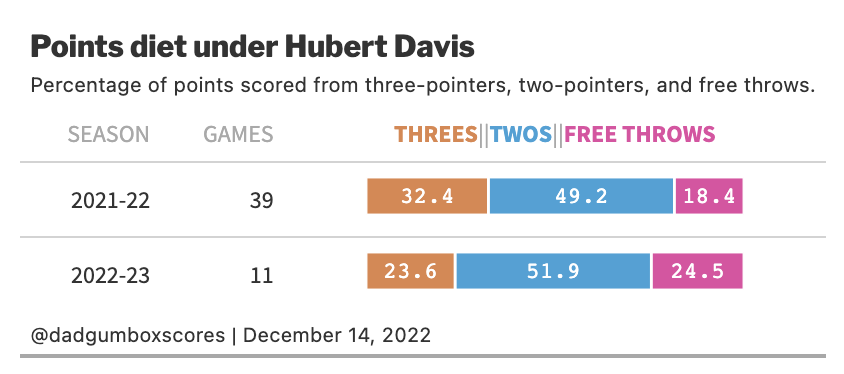
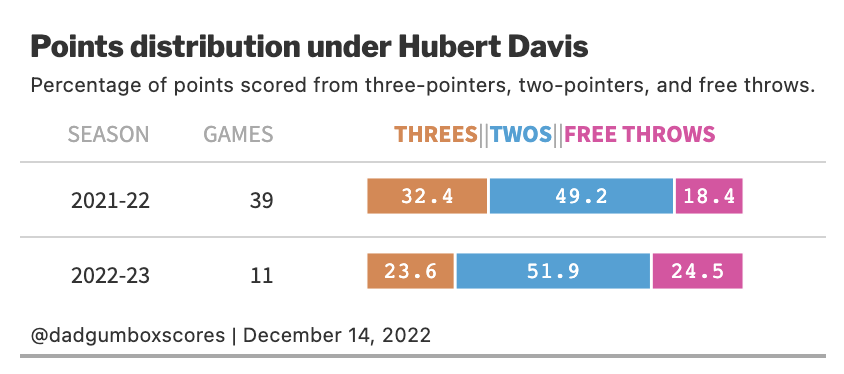
byc-006-updates

Changed region(s): [[0.1848, 0.0882, 0.7085, 0.1765]]

diff --git a/byc_006/byc-006_points_dist.html b/byc_006/byc-006_points_dist.html
@@ -140,8 +140,8 @@ code span.wa { color: #60a0b0; font-weight: bold; font-style: italic; } /* Warni
 <span id="cb1-9"><a href="#cb1-9" aria-hidden="true" tabindex="-1"></a>  <span class="st">"2022-23"</span>,<span class="dv">11</span>,<span class="st">"Free Throws"</span>,<span class="fl">24.5</span></span>
 <span id="cb1-10"><a href="#cb1-10" aria-hidden="true" tabindex="-1"></a>)</span>
 <span id="cb1-11"><a href="#cb1-11" aria-hidden="true" tabindex="-1"></a></span>
-<span id="cb1-12"><a href="#cb1-12" aria-hidden="true" tabindex="-1"></a><span class="co"># load csv ffrom sportsreference</span></span>
-<span id="cb1-13"><a href="#cb1-13" aria-hidden="true" tabindex="-1"></a>hubie <span class="ot">&lt;-</span> <span class="fu">read_csv</span>(<span class="st">'hubie.csv'</span>)</span></code><button title="Copy to Clipboard" class="code-copy-button"><i class="bi"></i></button></pre></div>
+<span id="cb1-12"><a href="#cb1-12" aria-hidden="true" tabindex="-1"></a><span class="co"># load csv from sportsreference</span></span>
+<span id="cb1-13"><a href="#cb1-13" aria-hidden="true" tabindex="-1"></a>assists <span class="ot">&lt;-</span> <span class="fu">read_csv</span>(<span class="st">'assists_turnovers.csv'</span>)</span></code><button title="Copy to Clipboard" class="code-copy-button"><i class="bi"></i></button></pre></div>
 </details>
 </div>
 </section>
@@ -150,93 +150,73 @@ code span.wa { color: #60a0b0; font-weight: bold; font-style: italic; } /* Warni
 <div class="cell">
 <details>
 <summary>Code</summary>
-<div class="sourceCode cell-code" id="cb2"><pre class="sourceCode r code-with-copy"><code class="sourceCode r"><span id="cb2-1"><a href="#cb2-1" aria-hidden="true" tabindex="-1"></a><span class="co"># season table </span></span>
+<div class="sourceCode cell-code" id="cb2"><pre class="sourceCode r code-with-copy"><code class="sourceCode r"><span id="cb2-1"><a href="#cb2-1" aria-hidden="true" tabindex="-1"></a><span class="co"># season table</span></span>
 <span id="cb2-2"><a href="#cb2-2" aria-hidden="true" tabindex="-1"></a>season_tb <span class="ot">&lt;-</span> season <span class="sc">%&gt;%</span></span>
 <span id="cb2-3"><a href="#cb2-3" aria-hidden="true" tabindex="-1"></a>  <span class="fu">group_by</span>(Season) <span class="sc">%&gt;%</span></span>
-<span id="cb2-4"><a href="#cb2-4" aria-hidden="true" tabindex="-1"></a>  <span class="fu">summarize</span>(<span class="at">list_data =</span> <span class="fu">list</span>(Values)) <span class="sc">%&gt;%</span> </span>
+<span id="cb2-4"><a href="#cb2-4" aria-hidden="true" tabindex="-1"></a>  <span class="fu">summarize</span>(<span class="at">list_data =</span> <span class="fu">list</span>(Values)) <span class="sc">%&gt;%</span></span>
 <span id="cb2-5"><a href="#cb2-5" aria-hidden="true" tabindex="-1"></a>  <span class="fu">arrange</span>(Season)</span>
 <span id="cb2-6"><a href="#cb2-6" aria-hidden="true" tabindex="-1"></a></span>
-<span id="cb2-7"><a href="#cb2-7" aria-hidden="true" tabindex="-1"></a>join_season <span class="ot">&lt;-</span> season <span class="sc">%&gt;%</span> </span>
-<span id="cb2-8"><a href="#cb2-8" aria-hidden="true" tabindex="-1"></a>  <span class="fu">group_by</span>(Season) <span class="sc">%&gt;%</span> </span>
-<span id="cb2-9"><a href="#cb2-9" aria-hidden="true" tabindex="-1"></a>  <span class="fu">summarize</span>(<span class="at">Games =</span> Games[<span class="dv">1</span>]) </span>
+<span id="cb2-7"><a href="#cb2-7" aria-hidden="true" tabindex="-1"></a>join_season <span class="ot">&lt;-</span> season <span class="sc">%&gt;%</span></span>
+<span id="cb2-8"><a href="#cb2-8" aria-hidden="true" tabindex="-1"></a>  <span class="fu">group_by</span>(Season) <span class="sc">%&gt;%</span></span>
+<span id="cb2-9"><a href="#cb2-9" aria-hidden="true" tabindex="-1"></a>  <span class="fu">summarize</span>(<span class="at">Games =</span> Games[<span class="dv">1</span>])</span>
 <span id="cb2-10"><a href="#cb2-10" aria-hidden="true" tabindex="-1"></a></span>
-<span id="cb2-11"><a href="#cb2-11" aria-hidden="true" tabindex="-1"></a>final_season <span class="ot">&lt;-</span> <span class="fu">merge</span>(season_tb, join_season, <span class="at">by =</span> <span class="st">"Season"</span>) <span class="sc">%&gt;%</span> </span>
-<span id="cb2-12"><a href="#cb2-12" aria-hidden="true" tabindex="-1"></a>  <span class="fu">select</span>(Season, Games, list_data) </span>
+<span id="cb2-11"><a href="#cb2-11" aria-hidden="true" tabindex="-1"></a>final_season <span class="ot">&lt;-</span> <span class="fu">merge</span>(season_tb, join_season, <span class="at">by =</span> <span class="st">"Season"</span>) <span class="sc">%&gt;%</span></span>
+<span id="cb2-12"><a href="#cb2-12" aria-hidden="true" tabindex="-1"></a>  <span class="fu">select</span>(Season, Games, list_data)</span>
 <span id="cb2-13"><a href="#cb2-13" aria-hidden="true" tabindex="-1"></a></span>
 <span id="cb2-14"><a href="#cb2-14" aria-hidden="true" tabindex="-1"></a>final_season <span class="sc">%&gt;%</span></span>
-<span id="cb2-15"><a href="#cb2-15" aria-hidden="true" tabindex="-1"></a>  <span class="fu">gt</span>() <span class="sc">%&gt;%</span> </span>
-<span id="cb2-16"><a href="#cb2-16" aria-hidden="true" tabindex="-1"></a>  <span class="fu">gt_plt_bar_stack</span>(<span class="at">column =</span> list_data, <span class="at">width =</span> <span class="dv">50</span>,</span>
-<span id="cb2-17"><a href="#cb2-17" aria-hidden="true" tabindex="-1"></a>                   <span class="at">labels =</span> <span class="fu">c</span>(<span class="st">"Threes"</span>, <span class="st">"Twos"</span>, <span class="st">"Free Throws"</span>),</span>
-<span id="cb2-18"><a href="#cb2-18" aria-hidden="true" tabindex="-1"></a>                   <span class="at">palette=</span> <span class="fu">c</span>(<span class="st">"#d38956"</span>, <span class="st">"#56a0d3"</span>, <span class="st">"#d356a0"</span>),</span>
-<span id="cb2-19"><a href="#cb2-19" aria-hidden="true" tabindex="-1"></a>                   <span class="at">fmt_fn =</span> scales<span class="sc">::</span><span class="fu">label_number</span>(<span class="at">accuracy =</span> <span class="fl">0.1</span>)) <span class="sc">%&gt;%</span></span>
-<span id="cb2-20"><a href="#cb2-20" aria-hidden="true" tabindex="-1"></a>  <span class="fu">gt_theme_nytimes</span>() <span class="sc">%&gt;%</span> </span>
-<span id="cb2-21"><a href="#cb2-21" aria-hidden="true" tabindex="-1"></a>  <span class="co"># set title + caption + subtitle</span></span>
-<span id="cb2-22"><a href="#cb2-22" aria-hidden="true" tabindex="-1"></a>  <span class="fu">tab_header</span>(<span class="at">title =</span> <span class="st">"Points diet under Hubert Davis"</span>,</span>
-<span id="cb2-23"><a href="#cb2-23" aria-hidden="true" tabindex="-1"></a>             <span class="at">subtitle =</span> <span class="st">"Percentage of points scored from three-pointers, two-pointers, and free throws."</span>) <span class="sc">%&gt;%</span></span>
-<span id="cb2-24"><a href="#cb2-24" aria-hidden="true" tabindex="-1"></a>  <span class="fu">tab_source_note</span>(<span class="at">source_note =</span> <span class="st">"@dadgumboxscores | December 14, 2022"</span>)  <span class="sc">%&gt;%</span></span>
-<span id="cb2-25"><a href="#cb2-25" aria-hidden="true" tabindex="-1"></a>  <span class="co"># fix font of source note</span></span>
-<span id="cb2-26"><a href="#cb2-26" aria-hidden="true" tabindex="-1"></a>  <span class="fu">tab_options</span> (<span class="at">source_notes.font.size =</span> <span class="fu">px</span>(<span class="dv">10</span>),</span>
-<span id="cb2-27"><a href="#cb2-27" aria-hidden="true" tabindex="-1"></a>               <span class="at">table.font.size =</span> <span class="fu">px</span>(<span class="dv">12</span>)) <span class="sc">%&gt;%</span> </span>
-<span id="cb2-28"><a href="#cb2-28" aria-hidden="true" tabindex="-1"></a>  <span class="fu">gtsave</span>(<span class="st">"diet.png"</span>, <span class="at">expand =</span> <span class="dv">10</span>)</span>
-<span id="cb2-29"><a href="#cb2-29" aria-hidden="true" tabindex="-1"></a></span>
-<span id="cb2-30"><a href="#cb2-30" aria-hidden="true" tabindex="-1"></a><span class="co"># game-by-game data</span></span>
-<span id="cb2-31"><a href="#cb2-31" aria-hidden="true" tabindex="-1"></a>hubie <span class="sc">%&gt;%</span> </span>
-<span id="cb2-32"><a href="#cb2-32" aria-hidden="true" tabindex="-1"></a>  <span class="fu">mutate</span>(<span class="at">pts_three =</span> ((<span class="st">`</span><span class="at">3P</span><span class="st">`</span> <span class="sc">*</span> <span class="dv">3</span>) <span class="sc">/</span> Tm) <span class="sc">*</span> <span class="dv">100</span>,</span>
-<span id="cb2-33"><a href="#cb2-33" aria-hidden="true" tabindex="-1"></a>         <span class="at">pts_two =</span> (((FG <span class="sc">-</span> <span class="st">`</span><span class="at">3P</span><span class="st">`</span>) <span class="sc">*</span><span class="dv">2</span>) <span class="sc">/</span> Tm) <span class="sc">*</span><span class="dv">100</span>,</span>
-<span id="cb2-34"><a href="#cb2-34" aria-hidden="true" tabindex="-1"></a>         <span class="at">pts_ft =</span> (FT<span class="sc">/</span>Tm <span class="sc">*</span><span class="dv">100</span>)) <span class="sc">%&gt;%</span> </span>
-<span id="cb2-35"><a href="#cb2-35" aria-hidden="true" tabindex="-1"></a>        <span class="fu">pivot_longer</span>(<span class="at">cols =</span> <span class="fu">c</span>(pts_three,pts_two, pts_ft),</span>
-<span id="cb2-36"><a href="#cb2-36" aria-hidden="true" tabindex="-1"></a>                     <span class="at">names_to =</span> <span class="st">"ptd"</span>,</span>
-<span id="cb2-37"><a href="#cb2-37" aria-hidden="true" tabindex="-1"></a>                     <span class="at">values_to =</span> <span class="st">"val"</span>,</span>
-<span id="cb2-38"><a href="#cb2-38" aria-hidden="true" tabindex="-1"></a>                     ) <span class="sc">%&gt;%</span> </span>
-<span id="cb2-39"><a href="#cb2-39" aria-hidden="true" tabindex="-1"></a>  <span class="fu">rename</span>(<span class="at">Opp =</span> <span class="st">`</span><span class="at">Opp...4</span><span class="st">`</span>) <span class="sc">%&gt;%</span> </span>
-<span id="cb2-40"><a href="#cb2-40" aria-hidden="true" tabindex="-1"></a>  <span class="fu">select</span>(G,Date,Opp,<span class="st">`</span><span class="at">W/L</span><span class="st">`</span>,Tm,ptd,val) <span class="sc">%&gt;%</span> </span>
-<span id="cb2-41"><a href="#cb2-41" aria-hidden="true" tabindex="-1"></a>  <span class="fu">mutate</span>(<span class="at">month =</span> <span class="fu">case_when</span>(</span>
-<span id="cb2-42"><a href="#cb2-42" aria-hidden="true" tabindex="-1"></a>        G <span class="sc">&lt;</span> <span class="dv">13</span> <span class="sc">~</span> <span class="st">"November + December 2021"</span>,</span>
-<span id="cb2-43"><a href="#cb2-43" aria-hidden="true" tabindex="-1"></a>        G <span class="sc">&gt;</span> <span class="dv">12</span> <span class="sc">&amp;</span> G <span class="sc">&lt;</span> <span class="dv">31</span> <span class="sc">~</span> <span class="st">"January + February"</span>,</span>
-<span id="cb2-44"><a href="#cb2-44" aria-hidden="true" tabindex="-1"></a>        G <span class="sc">&gt;</span> <span class="dv">30</span> <span class="sc">&amp;</span> G <span class="sc">&lt;</span> <span class="dv">40</span> <span class="sc">~</span> <span class="st">"March + April"</span>,</span>
-<span id="cb2-45"><a href="#cb2-45" aria-hidden="true" tabindex="-1"></a>        G <span class="sc">&gt;</span> <span class="dv">39</span> <span class="sc">~</span> <span class="st">"2022-23 season"</span>,</span>
-<span id="cb2-46"><a href="#cb2-46" aria-hidden="true" tabindex="-1"></a>  )) <span class="ot">-&gt;</span> new</span>
-<span id="cb2-47"><a href="#cb2-47" aria-hidden="true" tabindex="-1"></a></span>
-<span id="cb2-48"><a href="#cb2-48" aria-hidden="true" tabindex="-1"></a>first <span class="ot">&lt;-</span> new <span class="sc">%&gt;%</span></span>
-<span id="cb2-49"><a href="#cb2-49" aria-hidden="true" tabindex="-1"></a>  <span class="fu">group_by</span>(G) <span class="sc">%&gt;%</span></span>
-<span id="cb2-50"><a href="#cb2-50" aria-hidden="true" tabindex="-1"></a>  <span class="fu">summarize</span>(<span class="at">list_data =</span> <span class="fu">list</span>(val)) <span class="sc">%&gt;%</span> </span>
-<span id="cb2-51"><a href="#cb2-51" aria-hidden="true" tabindex="-1"></a>  <span class="fu">arrange</span>(G) </span>
-<span id="cb2-52"><a href="#cb2-52" aria-hidden="true" tabindex="-1"></a></span>
-<span id="cb2-53"><a href="#cb2-53" aria-hidden="true" tabindex="-1"></a>second <span class="ot">&lt;-</span> new <span class="sc">%&gt;%</span> </span>
-<span id="cb2-54"><a href="#cb2-54" aria-hidden="true" tabindex="-1"></a>        <span class="fu">group_by</span>(G) <span class="sc">%&gt;%</span> </span>
-<span id="cb2-55"><a href="#cb2-55" aria-hidden="true" tabindex="-1"></a>        <span class="fu">summarize</span>(<span class="at">Opp =</span> Opp[<span class="dv">1</span>], <span class="at">Pts =</span> Tm[<span class="dv">1</span>]) <span class="sc">%&gt;%</span> </span>
-<span id="cb2-56"><a href="#cb2-56" aria-hidden="true" tabindex="-1"></a>        <span class="fu">arrange</span>(<span class="sc">-</span>G) </span>
-<span id="cb2-57"><a href="#cb2-57" aria-hidden="true" tabindex="-1"></a></span>
-<span id="cb2-58"><a href="#cb2-58" aria-hidden="true" tabindex="-1"></a>third  <span class="ot">&lt;-</span> <span class="fu">merge</span>(first, second, <span class="at">by =</span> <span class="st">"G"</span>) <span class="sc">%&gt;%</span> </span>
-<span id="cb2-59"><a href="#cb2-59" aria-hidden="true" tabindex="-1"></a>  <span class="fu">select</span>(G, Opp, Pts, list_data) </span>
-<span id="cb2-60"><a href="#cb2-60" aria-hidden="true" tabindex="-1"></a></span>
-<span id="cb2-61"><a href="#cb2-61" aria-hidden="true" tabindex="-1"></a>month <span class="ot">&lt;-</span> new <span class="sc">%&gt;%</span> </span>
-<span id="cb2-62"><a href="#cb2-62" aria-hidden="true" tabindex="-1"></a>         <span class="fu">group_by</span>(G) <span class="sc">%&gt;%</span> </span>
-<span id="cb2-63"><a href="#cb2-63" aria-hidden="true" tabindex="-1"></a>         <span class="fu">summarize</span>(<span class="at">month =</span> month[<span class="dv">1</span>]) <span class="sc">%&gt;%</span> </span>
-<span id="cb2-64"><a href="#cb2-64" aria-hidden="true" tabindex="-1"></a>         <span class="fu">arrange</span>(<span class="sc">-</span>G) </span>
-<span id="cb2-65"><a href="#cb2-65" aria-hidden="true" tabindex="-1"></a></span>
-<span id="cb2-66"><a href="#cb2-66" aria-hidden="true" tabindex="-1"></a>final <span class="ot">&lt;-</span> <span class="fu">merge</span>(third, month, <span class="at">by =</span> <span class="st">"G"</span>) <span class="sc">%&gt;%</span> </span>
-<span id="cb2-67"><a href="#cb2-67" aria-hidden="true" tabindex="-1"></a>          <span class="fu">select</span>(G, Opp, Pts, list_data, month) </span>
-<span id="cb2-68"><a href="#cb2-68" aria-hidden="true" tabindex="-1"></a>      </span>
-<span id="cb2-69"><a href="#cb2-69" aria-hidden="true" tabindex="-1"></a></span>
-<span id="cb2-70"><a href="#cb2-70" aria-hidden="true" tabindex="-1"></a>final <span class="sc">%&gt;%</span></span>
-<span id="cb2-71"><a href="#cb2-71" aria-hidden="true" tabindex="-1"></a>  <span class="fu">arrange</span>(<span class="sc">-</span>G) <span class="sc">%&gt;%</span> </span>
-<span id="cb2-72"><a href="#cb2-72" aria-hidden="true" tabindex="-1"></a>  <span class="fu">slice</span>(<span class="dv">1</span><span class="sc">:</span><span class="dv">10</span>) <span class="sc">%&gt;%</span> </span>
-<span id="cb2-73"><a href="#cb2-73" aria-hidden="true" tabindex="-1"></a>  <span class="fu">select</span>(Opp, Pts, list_data) <span class="sc">%&gt;%</span> </span>
-<span id="cb2-74"><a href="#cb2-74" aria-hidden="true" tabindex="-1"></a>  <span class="fu">gt</span>() <span class="sc">%&gt;%</span> </span>
-<span id="cb2-75"><a href="#cb2-75" aria-hidden="true" tabindex="-1"></a>  <span class="fu">gt_plt_bar_stack</span>(<span class="at">column =</span> list_data, <span class="at">width =</span> <span class="dv">70</span>,</span>
-<span id="cb2-76"><a href="#cb2-76" aria-hidden="true" tabindex="-1"></a>                   <span class="at">labels =</span> <span class="fu">c</span>(<span class="st">"Threes"</span>, <span class="st">"Twos"</span>, <span class="st">"Free Throws"</span>),</span>
-<span id="cb2-77"><a href="#cb2-77" aria-hidden="true" tabindex="-1"></a>                   <span class="at">palette=</span> <span class="fu">c</span>(<span class="st">"#d38956"</span>, <span class="st">"#56a0d3"</span>, <span class="st">"#d356a0"</span>),</span>
-<span id="cb2-78"><a href="#cb2-78" aria-hidden="true" tabindex="-1"></a>                   <span class="at">fmt_fn =</span> scales<span class="sc">::</span><span class="fu">label_number</span>(<span class="at">accuracy =</span> <span class="fl">0.1</span>)) <span class="sc">%&gt;%</span></span>
-<span id="cb2-79"><a href="#cb2-79" aria-hidden="true" tabindex="-1"></a>  <span class="fu">gt_theme_nytimes</span>() <span class="sc">%&gt;%</span> </span>
-<span id="cb2-80"><a href="#cb2-80" aria-hidden="true" tabindex="-1"></a>  <span class="co"># set title + caption + subtitle</span></span>
-<span id="cb2-81"><a href="#cb2-81" aria-hidden="true" tabindex="-1"></a>  <span class="fu">tab_header</span>(<span class="at">title =</span> <span class="st">"Points diet game-by-game this season"</span>,</span>
-<span id="cb2-82"><a href="#cb2-82" aria-hidden="true" tabindex="-1"></a>             <span class="at">subtitle =</span> <span class="st">"Percentage of points scored from three-pointers, two-pointers, and free throws."</span>) <span class="sc">%&gt;%</span></span>
-<span id="cb2-83"><a href="#cb2-83" aria-hidden="true" tabindex="-1"></a>  <span class="fu">tab_source_note</span>(<span class="at">source_note =</span> <span class="st">"@dadgumboxscores | December 14, 2022"</span>)  <span class="sc">%&gt;%</span></span>
-<span id="cb2-84"><a href="#cb2-84" aria-hidden="true" tabindex="-1"></a>  <span class="co"># fix font of source note</span></span>
-<span id="cb2-85"><a href="#cb2-85" aria-hidden="true" tabindex="-1"></a>  <span class="fu">tab_options</span> (<span class="at">source_notes.font.size =</span> <span class="fu">px</span>(<span class="dv">10</span>),</span>
-<span id="cb2-86"><a href="#cb2-86" aria-hidden="true" tabindex="-1"></a>               <span class="at">table.font.size =</span> <span class="fu">px</span>(<span class="dv">12</span>)) <span class="sc">%&gt;%</span> </span>
-<span id="cb2-87"><a href="#cb2-87" aria-hidden="true" tabindex="-1"></a>  <span class="fu">gtsave</span>(<span class="st">"all_games_diet.png"</span>, <span class="at">expand =</span> <span class="dv">10</span>)</span></code><button title="Copy to Clipboard" class="code-copy-button"><i class="bi"></i></button></pre></div>
+<span id="cb2-15"><a href="#cb2-15" aria-hidden="true" tabindex="-1"></a>  <span class="fu">gt</span>() <span class="sc">%&gt;%</span></span>
+<span id="cb2-16"><a href="#cb2-16" aria-hidden="true" tabindex="-1"></a>  <span class="fu">gt_plt_bar_stack</span>(</span>
+<span id="cb2-17"><a href="#cb2-17" aria-hidden="true" tabindex="-1"></a>    <span class="at">column =</span> list_data,</span>
+<span id="cb2-18"><a href="#cb2-18" aria-hidden="true" tabindex="-1"></a>    <span class="at">width =</span> <span class="dv">50</span>,</span>
+<span id="cb2-19"><a href="#cb2-19" aria-hidden="true" tabindex="-1"></a>    <span class="at">labels =</span> <span class="fu">c</span>(<span class="st">"Threes"</span>, <span class="st">"Twos"</span>, <span class="st">"Free Throws"</span>),</span>
+<span id="cb2-20"><a href="#cb2-20" aria-hidden="true" tabindex="-1"></a>    <span class="at">palette =</span> <span class="fu">c</span>(<span class="st">"#d38956"</span>, <span class="st">"#56a0d3"</span>, <span class="st">"#d356a0"</span>),</span>
+<span id="cb2-21"><a href="#cb2-21" aria-hidden="true" tabindex="-1"></a>    <span class="at">fmt_fn =</span> scales<span class="sc">::</span><span class="fu">label_number</span>(<span class="at">accuracy =</span> <span class="fl">0.1</span>)</span>
+<span id="cb2-22"><a href="#cb2-22" aria-hidden="true" tabindex="-1"></a>  ) <span class="sc">%&gt;%</span></span>
+<span id="cb2-23"><a href="#cb2-23" aria-hidden="true" tabindex="-1"></a>  <span class="fu">gt_theme_nytimes</span>() <span class="sc">%&gt;%</span></span>
+<span id="cb2-24"><a href="#cb2-24" aria-hidden="true" tabindex="-1"></a>  <span class="co"># set title + caption + subtitle</span></span>
+<span id="cb2-25"><a href="#cb2-25" aria-hidden="true" tabindex="-1"></a>  <span class="fu">tab_header</span>(<span class="at">title =</span> <span class="st">"Points distribution under Hubert Davis"</span>,</span>
+<span id="cb2-26"><a href="#cb2-26" aria-hidden="true" tabindex="-1"></a>             <span class="at">subtitle =</span> <span class="st">"Percentage of points scored from three-pointers, two-pointers, and free throws."</span>) <span class="sc">%&gt;%</span></span>
+<span id="cb2-27"><a href="#cb2-27" aria-hidden="true" tabindex="-1"></a>  <span class="fu">tab_source_note</span>(<span class="at">source_note =</span> <span class="st">"@dadgumboxscores | December 14, 2022"</span>)  <span class="sc">%&gt;%</span></span>
+<span id="cb2-28"><a href="#cb2-28" aria-hidden="true" tabindex="-1"></a>  <span class="co"># fix font of source note</span></span>
+<span id="cb2-29"><a href="#cb2-29" aria-hidden="true" tabindex="-1"></a>  <span class="fu">tab_options</span> (<span class="at">source_notes.font.size =</span> <span class="fu">px</span>(<span class="dv">10</span>),</span>
+<span id="cb2-30"><a href="#cb2-30" aria-hidden="true" tabindex="-1"></a>               <span class="at">table.font.size =</span> <span class="fu">px</span>(<span class="dv">12</span>)) <span class="sc">%&gt;%</span></span>
+<span id="cb2-31"><a href="#cb2-31" aria-hidden="true" tabindex="-1"></a>  <span class="fu">gtsave</span>(<span class="st">"diet.png"</span>, <span class="at">expand =</span> <span class="dv">10</span>)</span>
+<span id="cb2-32"><a href="#cb2-32" aria-hidden="true" tabindex="-1"></a></span>
+<span id="cb2-33"><a href="#cb2-33" aria-hidden="true" tabindex="-1"></a><span class="co"># assists data</span></span>
+<span id="cb2-34"><a href="#cb2-34" aria-hidden="true" tabindex="-1"></a>assists <span class="sc">%&gt;%</span></span>
+<span id="cb2-35"><a href="#cb2-35" aria-hidden="true" tabindex="-1"></a>  <span class="fu">slice</span>(<span class="dv">1</span><span class="sc">:</span><span class="dv">11</span>) <span class="sc">%&gt;%</span></span>
+<span id="cb2-36"><a href="#cb2-36" aria-hidden="true" tabindex="-1"></a>  <span class="fu">mutate</span>(<span class="at">Opp =</span> <span class="fu">if_else</span>(Opp <span class="sc">==</span> <span class="st">"College of Charleston"</span>, <span class="st">"Charleston"</span>, Opp)) <span class="sc">%&gt;%</span></span>
+<span id="cb2-37"><a href="#cb2-37" aria-hidden="true" tabindex="-1"></a>  <span class="fu">mutate</span>(<span class="st">"AST:TO"</span> <span class="ot">=</span> (AST <span class="sc">-</span> TOV),</span>
+<span id="cb2-38"><a href="#cb2-38" aria-hidden="true" tabindex="-1"></a>         <span class="at">logo =</span> Opp) <span class="sc">%&gt;%</span></span>
+<span id="cb2-39"><a href="#cb2-39" aria-hidden="true" tabindex="-1"></a>  <span class="fu">adorn_totals</span>() <span class="sc">%&gt;%</span></span>
+<span id="cb2-40"><a href="#cb2-40" aria-hidden="true" tabindex="-1"></a>  <span class="fu">mutate</span>(<span class="at">logo =</span> <span class="fu">if_else</span>(logo <span class="sc">==</span> <span class="st">"-"</span>, <span class="st">'North Carolina'</span>, logo)) <span class="sc">%&gt;%</span></span>
+<span id="cb2-41"><a href="#cb2-41" aria-hidden="true" tabindex="-1"></a>  <span class="fu">select</span>(G, Opp, logo, <span class="st">`</span><span class="at">W/L</span><span class="st">`</span>, FG, FGA, AST, TOV, <span class="st">`</span><span class="at">AST:TO</span><span class="st">`</span>) <span class="sc">%&gt;%</span></span>
+<span id="cb2-42"><a href="#cb2-42" aria-hidden="true" tabindex="-1"></a>  <span class="fu">gt</span>() <span class="sc">%&gt;%</span></span>
+<span id="cb2-43"><a href="#cb2-43" aria-hidden="true" tabindex="-1"></a>  <span class="fu">gt_fmt_cfb_logo</span>(<span class="at">columns =</span> <span class="st">"logo"</span>) <span class="sc">%&gt;%</span></span>
+<span id="cb2-44"><a href="#cb2-44" aria-hidden="true" tabindex="-1"></a>  <span class="fu">cols_label</span>(<span class="at">Opp =</span> <span class="st">"Opponent"</span>,</span>
+<span id="cb2-45"><a href="#cb2-45" aria-hidden="true" tabindex="-1"></a>             <span class="at">logo =</span> <span class="st">""</span>,</span>
+<span id="cb2-46"><a href="#cb2-46" aria-hidden="true" tabindex="-1"></a>             <span class="at">G =</span> <span class="st">""</span>,</span>
+<span id="cb2-47"><a href="#cb2-47" aria-hidden="true" tabindex="-1"></a>             <span class="at">FG =</span> <span class="st">"FGM"</span>) <span class="sc">%&gt;%</span></span>
+<span id="cb2-48"><a href="#cb2-48" aria-hidden="true" tabindex="-1"></a>  <span class="fu">fmt</span>(</span>
+<span id="cb2-49"><a href="#cb2-49" aria-hidden="true" tabindex="-1"></a>    <span class="at">columns =</span> <span class="fu">c</span>(<span class="st">`</span><span class="at">AST:TO</span><span class="st">`</span>),</span>
+<span id="cb2-50"><a href="#cb2-50" aria-hidden="true" tabindex="-1"></a>    <span class="at">fns =</span> <span class="cf">function</span>(x) {</span>
+<span id="cb2-51"><a href="#cb2-51" aria-hidden="true" tabindex="-1"></a>      <span class="fu">ifelse</span>(x <span class="sc">&gt;</span> <span class="dv">0</span>, <span class="fu">paste0</span>(<span class="st">"+"</span>, x), x)</span>
+<span id="cb2-52"><a href="#cb2-52" aria-hidden="true" tabindex="-1"></a>    }</span>
+<span id="cb2-53"><a href="#cb2-53" aria-hidden="true" tabindex="-1"></a>  ) <span class="sc">%&gt;%</span></span>
+<span id="cb2-54"><a href="#cb2-54" aria-hidden="true" tabindex="-1"></a>  <span class="fu">gt_highlight_rows</span>(</span>
+<span id="cb2-55"><a href="#cb2-55" aria-hidden="true" tabindex="-1"></a>    <span class="at">rows =</span> <span class="fu">c</span>(<span class="dv">2</span>, <span class="dv">4</span>, <span class="dv">5</span>, <span class="dv">10</span>, <span class="dv">11</span>),</span>
+<span id="cb2-56"><a href="#cb2-56" aria-hidden="true" tabindex="-1"></a>    <span class="at">fill =</span> <span class="st">"#d0e4f3"</span>,</span>
+<span id="cb2-57"><a href="#cb2-57" aria-hidden="true" tabindex="-1"></a>    <span class="at">bold_target_only =</span> <span class="cn">TRUE</span>,</span>
+<span id="cb2-58"><a href="#cb2-58" aria-hidden="true" tabindex="-1"></a>    <span class="at">target_col =</span> <span class="fu">c</span>(<span class="st">`</span><span class="at">AST:TO</span><span class="st">`</span>),</span>
+<span id="cb2-59"><a href="#cb2-59" aria-hidden="true" tabindex="-1"></a>  ) <span class="sc">%&gt;%</span></span>
+<span id="cb2-60"><a href="#cb2-60" aria-hidden="true" tabindex="-1"></a>  <span class="fu">gt_theme_nytimes</span>() <span class="sc">%&gt;%</span></span>
+<span id="cb2-61"><a href="#cb2-61" aria-hidden="true" tabindex="-1"></a>  <span class="co"># set title + caption + subtitle</span></span>
+<span id="cb2-62"><a href="#cb2-62" aria-hidden="true" tabindex="-1"></a>  <span class="fu">tab_header</span>(<span class="at">title =</span> <span class="st">"Made Field Goals and Assist to Turnover Ratio"</span>) <span class="sc">%&gt;%</span></span>
+<span id="cb2-63"><a href="#cb2-63" aria-hidden="true" tabindex="-1"></a>  <span class="fu">tab_source_note</span>(<span class="at">source_note =</span> <span class="st">"@dadgumboxscores | December 14, 2022"</span>)  <span class="sc">%&gt;%</span></span>
+<span id="cb2-64"><a href="#cb2-64" aria-hidden="true" tabindex="-1"></a>  <span class="co"># fix font of source note</span></span>
+<span id="cb2-65"><a href="#cb2-65" aria-hidden="true" tabindex="-1"></a>  <span class="fu">tab_options</span> (<span class="at">source_notes.font.size =</span> <span class="fu">px</span>(<span class="dv">10</span>),</span>
+<span id="cb2-66"><a href="#cb2-66" aria-hidden="true" tabindex="-1"></a>               <span class="at">table.font.size =</span> <span class="fu">px</span>(<span class="dv">12</span>)) <span class="sc">%&gt;%</span></span>
+<span id="cb2-67"><a href="#cb2-67" aria-hidden="true" tabindex="-1"></a>  <span class="fu">gtsave</span>(<span class="st">"a_to.png"</span>, <span class="at">expand =</span> <span class="dv">10</span>)</span></code><button title="Copy to Clipboard" class="code-copy-button"><i class="bi"></i></button></pre></div>
 </details>
 </div>
 <p><br>
